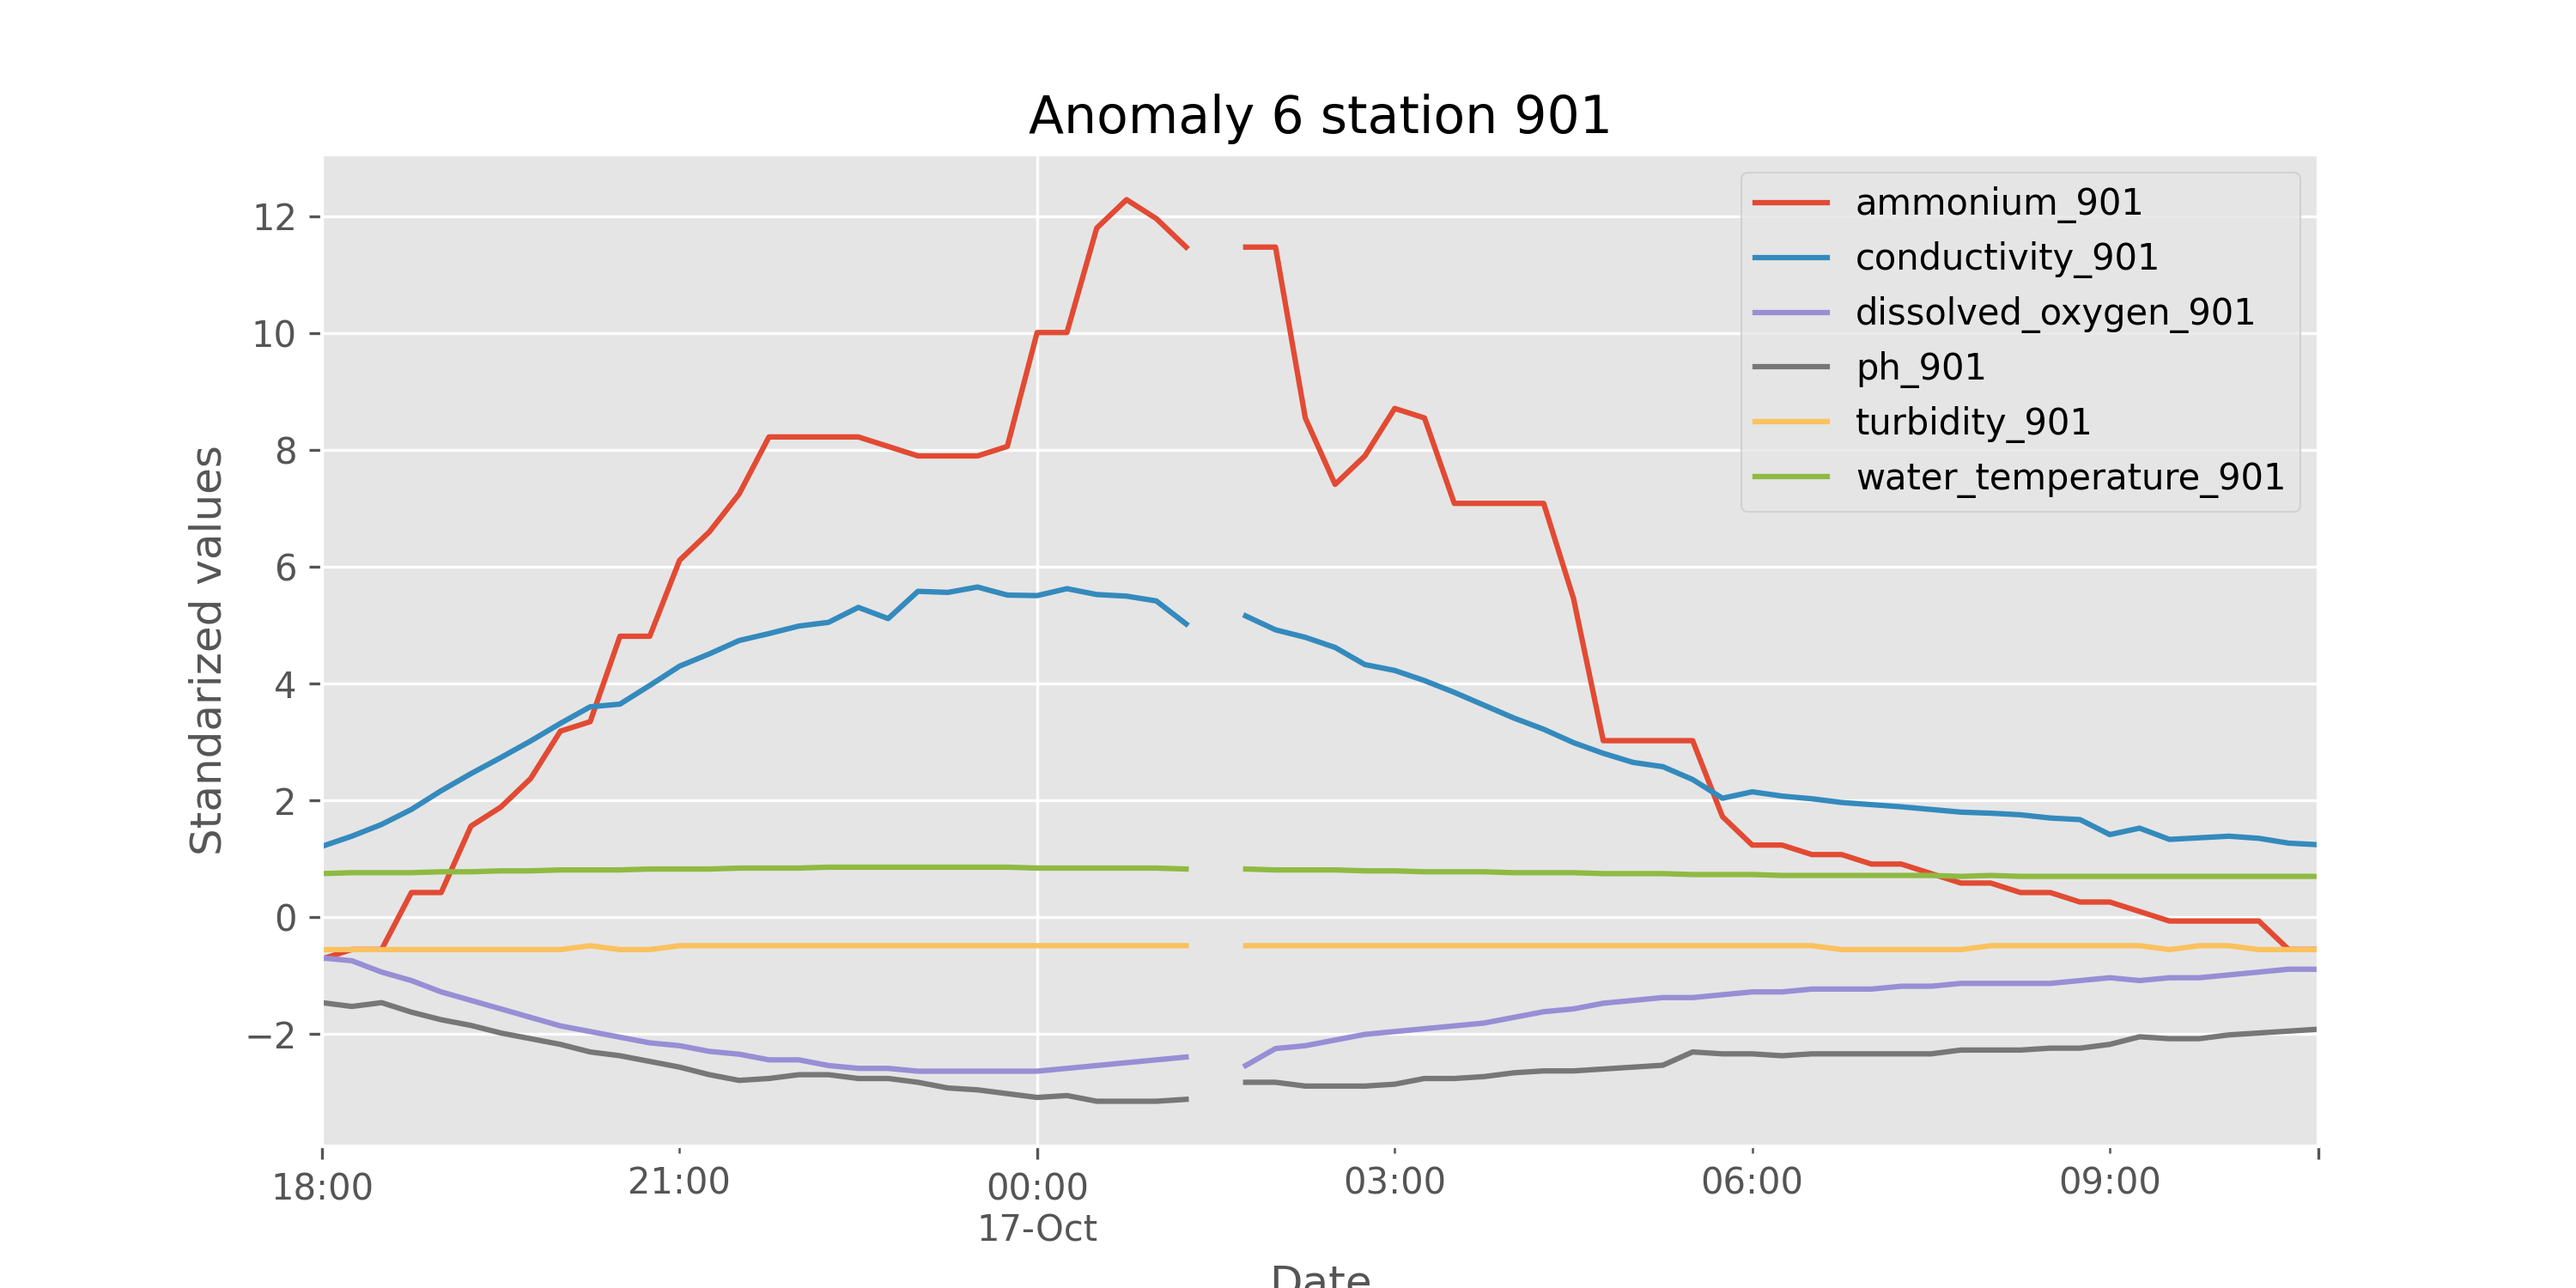
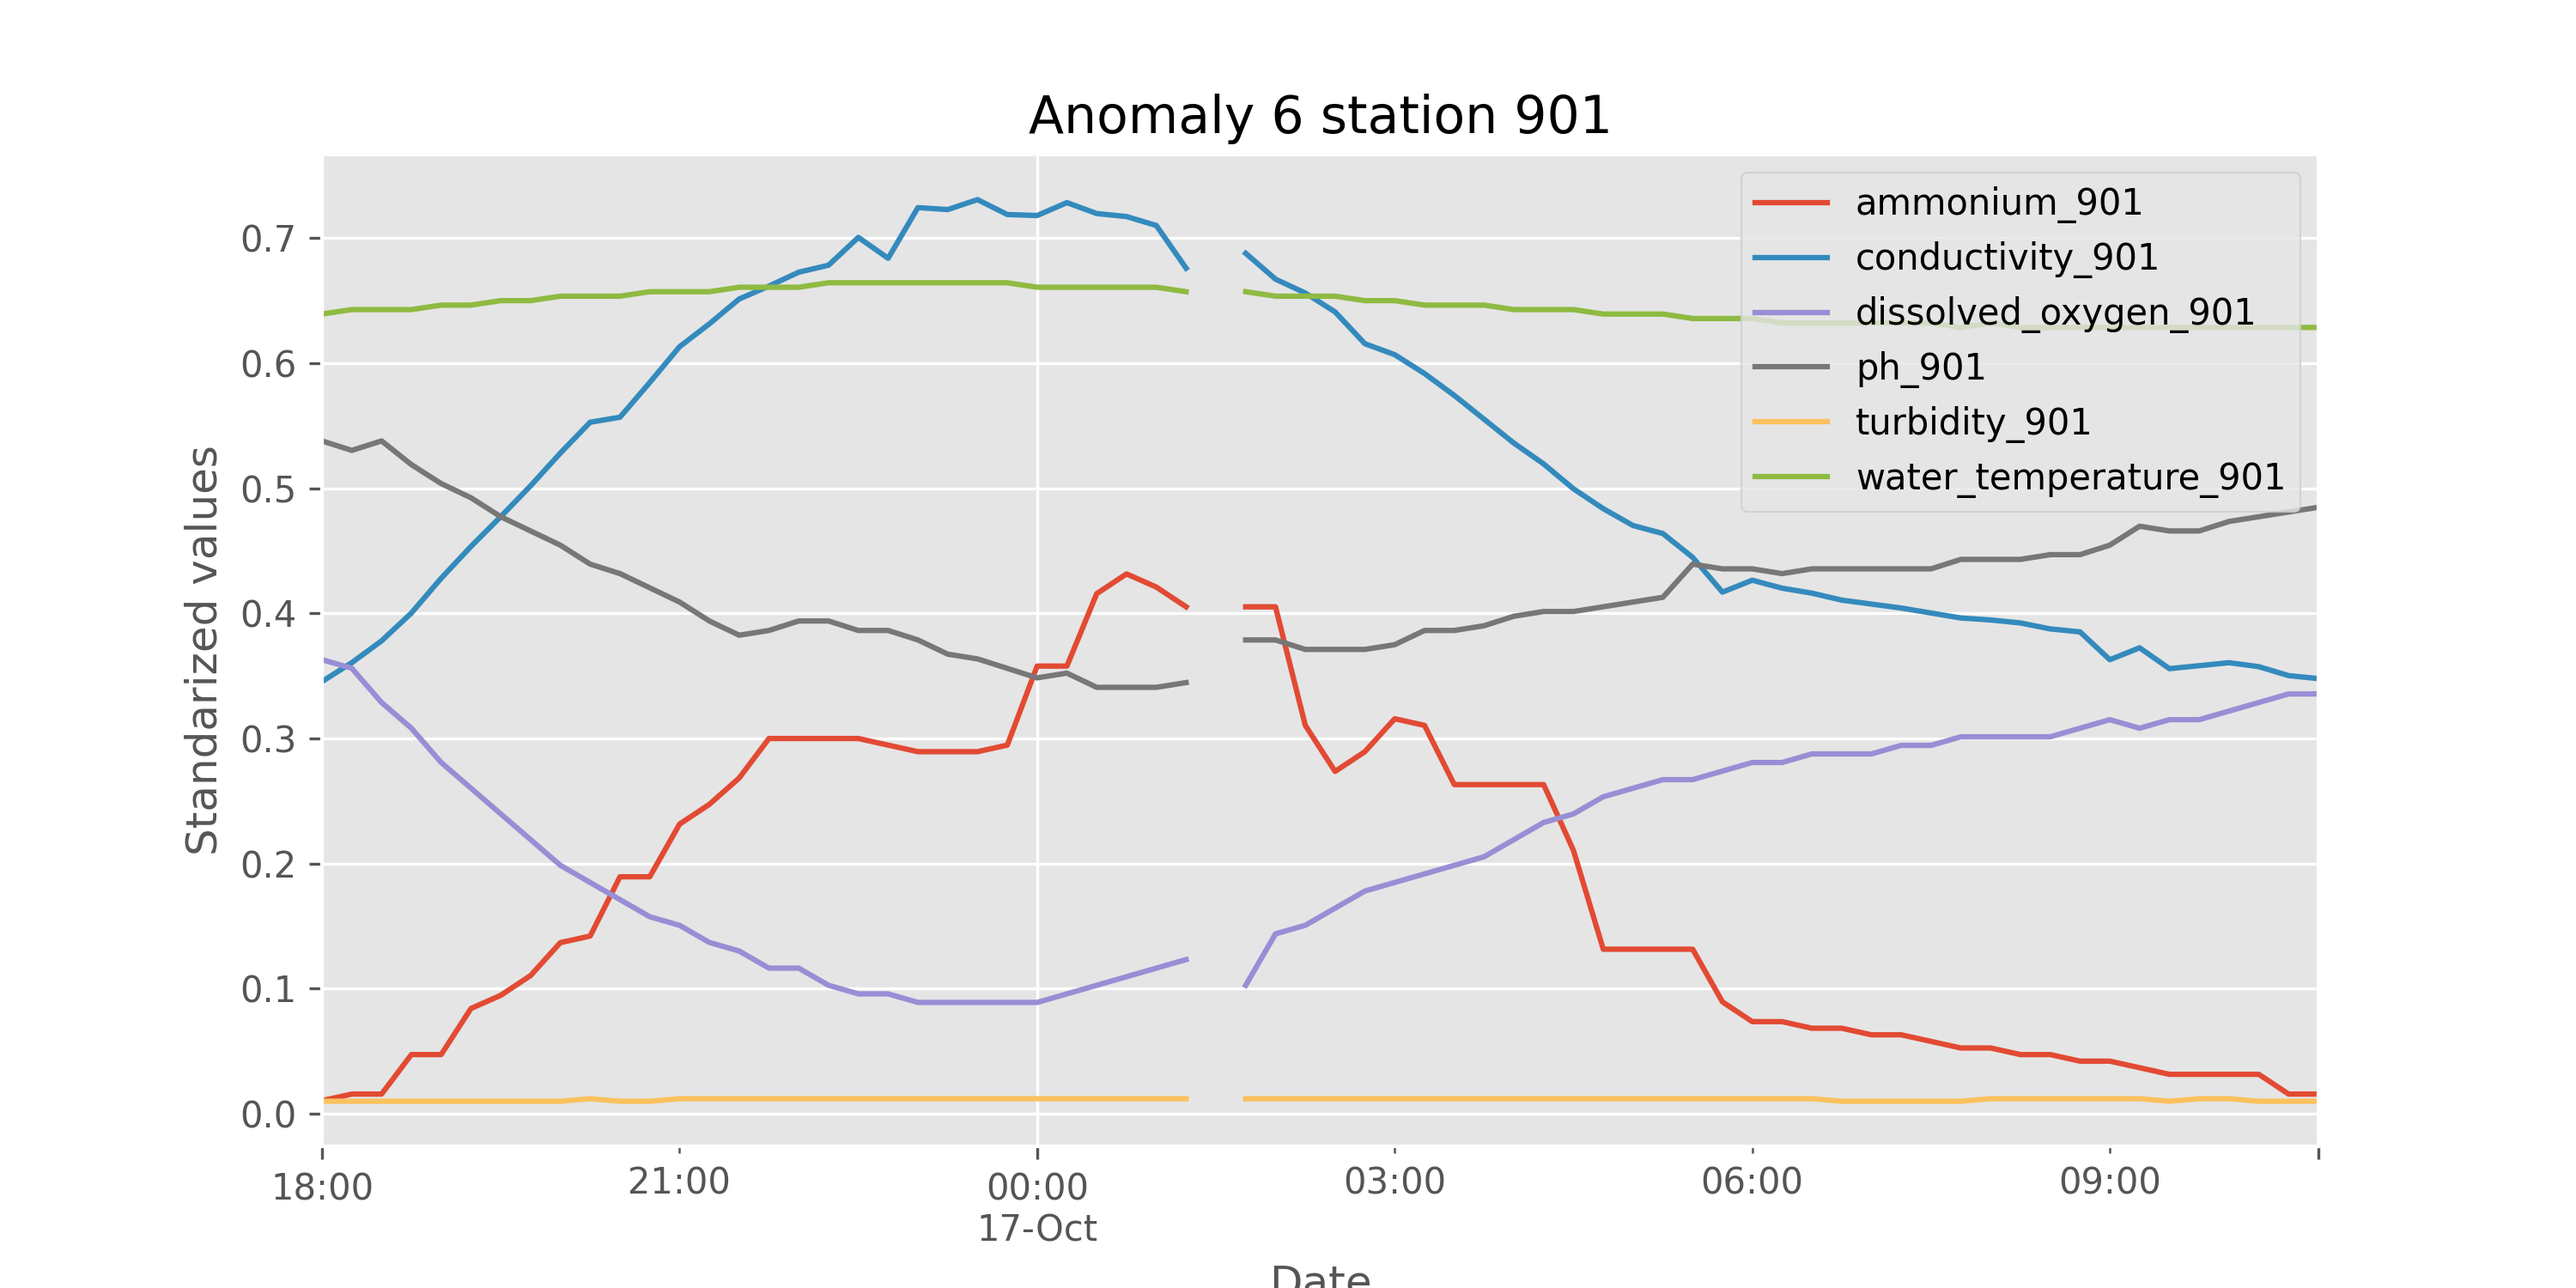
Modified normalization method

diff --git a/plots.py b/plots.py
@@ -353,12 +353,10 @@ def multivar_plotter(station):
     
     # Normalize the data
     from sklearn.preprocessing import StandardScaler
+    from sklearn.preprocessing import MinMaxScaler
     
-    scaler = StandardScaler()
-    df.iloc[:, 9:-1] = scaler.fit_transform(df.iloc[:, 9:-1])
-
-    # Drop the not-needed columns: year, month, day, hour, minute, second, week, and weekOrder
-    df.drop(df.columns[1:9], axis=1, inplace=True)
+    scaler = MinMaxScaler()
+    df.iloc[:, 1:-1] = scaler.fit_transform(df.iloc[:, 1:-1])
     
     # Filter the data to select only rows where the label column has a value of 1
     df_index = df[df["label"] == 1]
@@ -403,11 +401,13 @@ if __name__ == '__main__':
     
     # label_analyzer(files=[901, 902, 904, 905, 906, 907, 910, 916])
     
-    file_paths = ['data/labeled_901.csv', 'data/labeled_902.csv',
-                'data/labeled_904.csv', 'data/labeled_905.csv',
-                'data/labeled_906.csv', 'data/labeled_907.csv',
-                'data/labeled_910.csv', 'data/labeled_916.csv']
+    multivar_plotter(station=901)
     
-    violins(variable_name='water_temperature', file_paths=file_paths)
+    # file_paths = ['data/labeled_901.csv', 'data/labeled_902.csv',
+    #             'data/labeled_904.csv', 'data/labeled_905.csv',
+    #             'data/labeled_906.csv', 'data/labeled_907.csv',
+    #             'data/labeled_910.csv', 'data/labeled_916.csv']
+    
+    # violins(variable_name='water_temperature', file_paths=file_paths)
 
 

diff --git a/main.py b/main.py
@@ -273,17 +273,18 @@ class Model():
         )
 
         # Documentation on ROC AUC: https://developers.google.com/machine-learning/crash-course/classification/roc-and-auc
-        # metric = metrics.ROCAUC()
-        metric = metrics.Accuracy()
+        # The best metrics for our problem (imbalanced data) shoud be:
+        # Precission, recall, F1, and ROCAUC
+        metric = metrics.Precision()
 
         # for x, y in self.dataset:
         #     y_pred = model.predict_proba_one(x)
         #     model.learn_one(x, y)
         #     metric.update(y, y_pred)
-            # print(model.debug_one(x))
-        
+        #     # print(model.debug_one(x))
+            
         evaluate.progressive_val_score(self.dataset, model, metric)
-
+        
         print(metric)
 
     @tictoc
